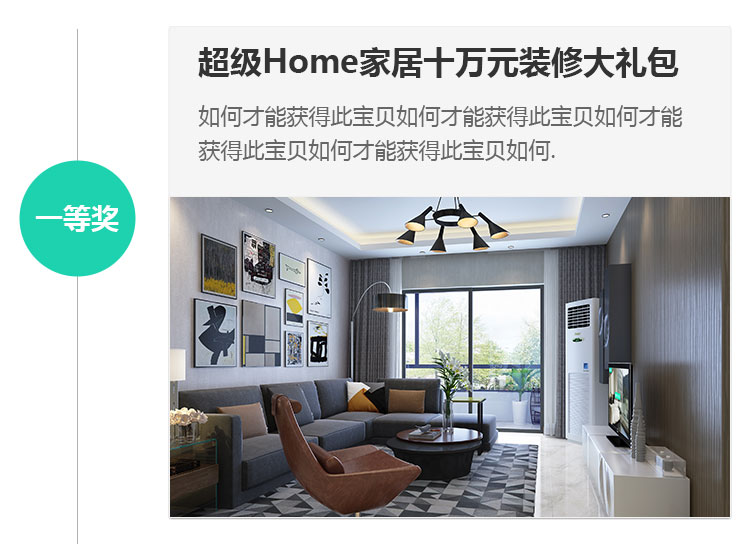
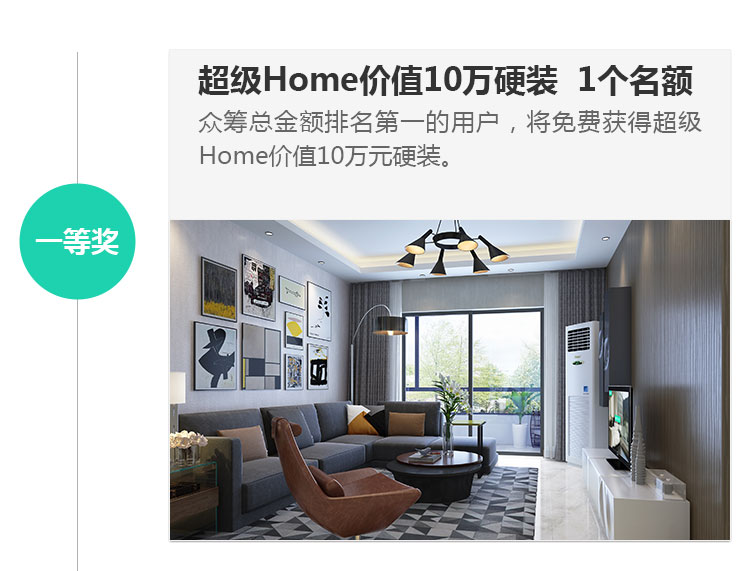
fix

diff --git a/static/css/activity/zero/detail.css b/static/css/activity/zero/detail.css
@@ -95,7 +95,20 @@ p {
 
 .header_cw .cw_name{
     font-size: 16px !important;
-    padding-right: 5px;
+    color:#fd7657;
+    padding-right: 4px;
+}
+
+.header .middle{
+    color: #fff;
+    background: #1dd2af;
+    width: 100%;
+    height: 40px;
+    font-size: 16px;
+    text-align: center;
+    margin-top: -18px;
+    padding-top: 8px;
+    margin-bottom: 6px;
 }
 
 .header_cw strong{
@@ -107,7 +120,7 @@ p {
     width: 92%;
     margin-left: 4%;
     margin-top: 20px;
-    margin-bottom: 60px;
+    margin-bottom: 10px;
 }
 
 .content .content-tip{
@@ -224,3 +237,36 @@ p {
     float: right;
     margin-right: 9%;
 }
+
+.home{
+    width: 100%;
+    height: auto;
+}
+
+.home img{
+    width: 100%;
+}
+
+.info{
+    margin-top: 10px;
+    margin-bottom: 70px;
+}
+
+.info p{
+    font-size: 16px;
+    text-align: center;
+}
+
+.info img{
+    width: 50%;
+    margin-left: 25%;
+    margin-top: 10px;
+}
+
+.info .nav{
+    font-size: 16px;
+    color: #666666;
+    text-align: center;
+    margin-top: 10px;
+}
+

diff --git a/application/views/activity/zero/detail.php b/application/views/activity/zero/detail.php
@@ -21,6 +21,8 @@
             <span>现在排名<strong>79</strong>位</span>
         </div>
     </div>
+    <img style="margin-top: -2px;">
+    <div class="middle">小伙伴们：给力支持1元，得免费装修靠你啦!</div>
     <img src="/static/image/activity/zero/detail_1.jpg">
     <img src="/static/image/activity/zero/detail_2.jpg">
     <img src="/static/image/activity/zero/detail_3.jpg">
@@ -51,6 +53,16 @@
             <p>亲爱的邻居们，感谢你们一路的支持，坚持就是胜利，有你们的支持我一定能够成功，加油！祝大家装修顺利，合家欢乐，开开心心！</p>
             <div class="date">06-22 12:53</div>
         </div>
+    </div>
+</div>
+<div class="home"><img src="/static/image/activity/zero/home.jpg"></div>
+<div class="info">
+    <p>长按识别二维码</p>
+    <img src="/static/image/activity/zero/two.png">
+    <div class="nav">
+        <a href="/wechat/product"><span>超级Home</span></a>&nbsp;|&nbsp;
+        <a href="/activity/neighbor"><span>邻居众筹优惠</span></a>&nbsp;|&nbsp;
+        <a href="/"><span>官方网站</span></a>
     </div>
 </div>
 <div class="footer">
